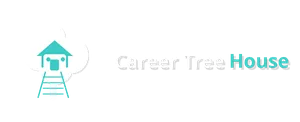
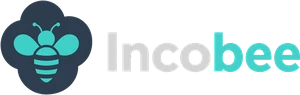
Dong HK2.0: incobee.com.

diff --git a/index.html b/index.html
@@ -5,7 +5,7 @@
 	
 	<meta name="viewport" content="width=device-width, initial-scale=1">
 	<link rel="profile" href="https://gmpg.org/xfn/11">
-	<title>Career Tree House</title>
+	<title>Incobee</title>
 <meta name="robots" content="noindex, nofollow">
 <!-- Google Tag Manager -->
 <script>(function(w,d,s,l,i){w[l]=w[l]||[];w[l].push({'gtm.start':
@@ -104,10 +104,10 @@ img:is([sizes=auto i],[sizes^="auto," i]){contain-intrinsic-size:3000px 1500px}
 <link rel="preload" as="image" href="wp-content/uploads/2025/03/5.webp" fetchpriority="high">
 <link rel="canonical" href="/">
 <link rel="shortlink" href="/">
-<link rel="icon" href="wp-content/uploads/2025/03/7-150x150.webp" sizes="32x32">
-<link rel="icon" href="wp-content/uploads/2025/03/7-300x300.webp" sizes="192x192">
-<link rel="apple-touch-icon" href="wp-content/uploads/2025/03/7-300x300.webp">
-<meta name="msapplication-TileImage" content="wp-content/uploads/2025/03/7-300x300.webp">
+<link rel="icon" href="wp-content/uploads/2025/03/7-150x150.webp?v=2" sizes="32x32">
+<link rel="icon" href="wp-content/uploads/2025/03/7-300x300.webp?v=2" sizes="192x192">
+<link rel="apple-touch-icon" href="wp-content/uploads/2025/03/7-300x300.webp?v=2">
+<meta name="msapplication-TileImage" content="wp-content/uploads/2025/03/7-300x300.webp?v=2">
 <style id="wp-custom-css">
 html, body {
 	overflow-x: hidden;
@@ -127,6 +127,10 @@ html, body {
 .elementor-testimonial-name {
 	margin-bottom: 5px;
 }
+
+#QBWpFormIFrame_1 {
+	height: 800px !important;
+}
 </style>
 </head>
 <body class="home wp-singular page-template page-template-elementor_header_footer page page-id-25 wp-custom-logo wp-embed-responsive wp-theme-hello-elementor theme-default elementor-default elementor-template-full-width elementor-kit-6 elementor-page elementor-page-25">
@@ -142,7 +146,7 @@ height="0" width="0" style="display:none;visibility:hidden"></iframe></noscript>
 					<div class="e-con-inner">
 				<div class="elementor-element elementor-element-df6df03 elementor-widget elementor-widget-text-editor" data-id="df6df03" data-element_type="widget" data-widget_type="text-editor.default">
 				<div class="elementor-widget-container">
-									<p><a style="color: #b5b5b5;" href="mailto:contact@careertreehouse.com">contact@careertreehouse.com</a> | 將軍澳, 香港。</p>								</div>
+									<p><a style="color: #b5b5b5;" href="mailto:contact@incobee.com">contact@incobee.com</a> | 將軍澳, 香港。</p>								</div>
 				</div>
 					</div>
 				</div>
@@ -152,7 +156,7 @@ height="0" width="0" style="display:none;visibility:hidden"></iframe></noscript>
 				<div class="elementor-element elementor-element-b9aa1db elementor-widget elementor-widget-theme-site-logo elementor-widget-image" data-id="b9aa1db" data-element_type="widget" data-widget_type="theme-site-logo.default">
 				<div class="elementor-widget-container">
 											<a href="/">
-			<img fetchpriority="high" width="500" height="204" src="wp-content/uploads/2025/03/5.webp" class="attachment-full size-full wp-image-55" alt="Career Tree House" srcset="wp-content/uploads/2025/03/5.webp 500w, wp-content/uploads/2025/03/5-300x122.webp 300w" sizes="(max-width: 500px) 100vw, 500px">				</a>
+			<img fetchpriority="high" width="500" height="204" src="wp-content/uploads/2025/03/5.webp" class="attachment-full size-full wp-image-55" alt="Incobee" srcset="wp-content/uploads/2025/03/5.webp 500w, wp-content/uploads/2025/03/5-300x122.webp 300w" sizes="(max-width: 500px) 100vw, 500px">				</a>
 											</div>
 				</div>
 				</div>
@@ -291,7 +295,7 @@ height="0" width="0" style="display:none;visibility:hidden"></iframe></noscript>
 				</div>
 				</div>
 		<div class="elementor-element elementor-element-116a8c1 e-con-full e-flex e-con e-child" data-id="116a8c1" data-element_type="container">
-				<div data-cddform="dong-hk20-hong-kong20" data-origin="www.careertreehouse.com"></div>
+				<div data-cddform="dong-hk20-hong-kong20" data-origin="www.incobee.com"></div>
 <script src="https://www.chatfromforms.com/form-embed.js?v=0.1" defer></script>
 				</div>
 					</div>
@@ -754,7 +758,7 @@ height="0" width="0" style="display:none;visibility:hidden"></iframe></noscript>
 				</div>
 				<div class="elementor-element elementor-element-f7f732f elementor-widget-tablet__width-initial elementor-widget elementor-widget-text-editor" data-id="f7f732f" data-element_type="widget" data-widget_type="text-editor.default">
 				<div class="elementor-widget-container">
-									<p>歡迎來到 Career Tree House，我們專注於為僱主連接有才華的專業人士，提供遠距居家工作的機會。我們的使命是簡化招聘流程，達成有效配對，支持靈活的工作安排，推動網上業務發展。</p>								</div>
+									<p>歡迎來到 Incobee，我們專注於為僱主連接有才華的專業人士，提供遠距居家工作的機會。我們的使命是簡化招聘流程，達成有效配對，支持靈活的工作安排，推動網上業務發展。</p>								</div>
 				</div>
 				<div class="elementor-element elementor-element-6a9d8b2 elementor-icon-list--layout-traditional elementor-list-item-link-full_width elementor-widget elementor-widget-icon-list" data-id="6a9d8b2" data-element_type="widget" data-widget_type="icon-list.default">
 				<div class="elementor-widget-container">
@@ -939,7 +943,7 @@ height="0" width="0" style="display:none;visibility:hidden"></iframe></noscript>
 							<img decoding="async" src="wp-content/plugins/elementor/assets/images/placeholder.png" title="" alt="" loading="lazy">						</div>
 					
 										<div class="elementor-testimonial-details">
-														<div class="elementor-testimonial-name">涂柏肇</div>
+														<div class="elementor-testimonial-name">簡士弘</div>
 																						<div class="elementor-testimonial-job">項目經理</div>
 													</div>
 									</div>
@@ -960,7 +964,7 @@ height="0" width="0" style="display:none;visibility:hidden"></iframe></noscript>
 							<img decoding="async" src="wp-content/plugins/elementor/assets/images/placeholder.png" title="" alt="" loading="lazy">						</div>
 					
 										<div class="elementor-testimonial-details">
-														<div class="elementor-testimonial-name">鄧鈺珍</div>
+														<div class="elementor-testimonial-name">關巧螢</div>
 																						<div class="elementor-testimonial-job">客戶支援代表</div>
 													</div>
 									</div>
@@ -981,7 +985,7 @@ height="0" width="0" style="display:none;visibility:hidden"></iframe></noscript>
 							<img decoding="async" src="wp-content/plugins/elementor/assets/images/placeholder.png" title="" alt="" loading="lazy">						</div>
 					
 										<div class="elementor-testimonial-details">
-														<div class="elementor-testimonial-name">司馬婉</div>
+														<div class="elementor-testimonial-name">甘美如</div>
 																						<div class="elementor-testimonial-job">虛擬助理</div>
 													</div>
 									</div>
@@ -1007,7 +1011,7 @@ height="0" width="0" style="display:none;visibility:hidden"></iframe></noscript>
 									<div class="elementor-testimonial__image">
 						<img decoding="async" src="wp-content/plugins/elementor/assets/images/placeholder.png" alt="涂柏肇">
 											</div>
-								<cite class="elementor-testimonial__cite"><span class="elementor-testimonial__name">涂柏肇</span><span class="elementor-testimonial__title">項目經理</span></cite>			</div>
+								<cite class="elementor-testimonial__cite"><span class="elementor-testimonial__name">簡士弘</span><span class="elementor-testimonial__title">項目經理</span></cite>			</div>
 		</div>
 								</div>
 											<div class="swiper-slide">
@@ -1020,7 +1024,7 @@ height="0" width="0" style="display:none;visibility:hidden"></iframe></noscript>
 									<div class="elementor-testimonial__image">
 						<img decoding="async" src="wp-content/plugins/elementor/assets/images/placeholder.png" alt="鄧鈺珍">
 											</div>
-								<cite class="elementor-testimonial__cite"><span class="elementor-testimonial__name">鄧鈺珍</span><span class="elementor-testimonial__title">客戶支援代表</span></cite>			</div>
+								<cite class="elementor-testimonial__cite"><span class="elementor-testimonial__name">關巧螢</span><span class="elementor-testimonial__title">客戶支援代表</span></cite>			</div>
 		</div>
 								</div>
 											<div class="swiper-slide">
@@ -1033,7 +1037,7 @@ height="0" width="0" style="display:none;visibility:hidden"></iframe></noscript>
 									<div class="elementor-testimonial__image">
 						<img decoding="async" src="wp-content/plugins/elementor/assets/images/placeholder.png" alt="司馬婉">
 											</div>
-								<cite class="elementor-testimonial__cite"><span class="elementor-testimonial__name">司馬婉</span><span class="elementor-testimonial__title">虛擬助理</span></cite>			</div>
+								<cite class="elementor-testimonial__cite"><span class="elementor-testimonial__name">甘美如</span><span class="elementor-testimonial__title">虛擬助理</span></cite>			</div>
 		</div>
 								</div>
 									</div>
@@ -1053,11 +1057,11 @@ height="0" width="0" style="display:none;visibility:hidden"></iframe></noscript>
 		<div class="elementor-element elementor-element-00ea152 e-con-full e-flex e-con e-child" data-id="00ea152" data-element_type="container">
 				<div class="elementor-element elementor-element-7e94a2d elementor-widget elementor-widget-image" data-id="7e94a2d" data-element_type="widget" data-widget_type="image.default">
 				<div class="elementor-widget-container">
-															<img width="500" height="198" src="wp-content/uploads/2025/03/6.webp" class="attachment-large size-large wp-image-70" alt="Career Tree House" srcset="wp-content/uploads/2025/03/6.webp 500w, wp-content/uploads/2025/03/6-300x119.webp 300w" sizes="(max-width: 500px) 100vw, 500px">															</div>
+															<img width="500" height="198" src="wp-content/uploads/2025/03/6.webp" class="attachment-large size-large wp-image-70" alt="Incobee" srcset="wp-content/uploads/2025/03/6.webp 500w, wp-content/uploads/2025/03/6-300x119.webp 300w" sizes="(max-width: 500px) 100vw, 500px">															</div>
 				</div>
 				<div class="elementor-element elementor-element-06a7dfa elementor-widget elementor-widget-text-editor" data-id="06a7dfa" data-element_type="widget" data-widget_type="text-editor.default">
 				<div class="elementor-widget-container">
-									<p>歡迎來到 Career Tree House，我們專注於為僱主連接有才華的專業人士，提供遠距在家工作的機會。</p>								</div>
+									<p>歡迎來到 Incobee，我們專注於為僱主連接有才華的專業人士，提供遠距在家工作的機會。</p>								</div>
 				</div>
 				<div class="elementor-element elementor-element-8bffc11 elementor-nav-menu__align-center elementor-nav-menu--dropdown-none elementor-widget elementor-widget-nav-menu" data-id="8bffc11" data-element_type="widget" data-settings="{&quot;layout&quot;:&quot;horizontal&quot;,&quot;submenu_icon&quot;:{&quot;value&quot;:&quot;&lt;svg class=\&quot;e-font-icon-svg e-fas-caret-down\&quot; viewBox=\&quot;0 0 320 512\&quot; xmlns=\&quot;http:\/\/www.w3.org\/2000\/svg\&quot;&gt;&lt;path d=\&quot;M31.3 192h257.3c17.8 0 26.7 21.5 14.1 34.1L174.1 354.8c-7.8 7.8-20.5 7.8-28.3 0L17.2 226.1C4.6 213.5 13.5 192 31.3 192z\&quot;&gt;&lt;\/path&gt;&lt;\/svg&gt;&quot;,&quot;library&quot;:&quot;fa-solid&quot;}}" data-widget_type="nav-menu.default">
 				<div class="elementor-widget-container">
@@ -1075,7 +1079,7 @@ height="0" width="0" style="display:none;visibility:hidden"></iframe></noscript>
 		<div class="elementor-element elementor-element-6c3f946 e-con-full e-flex e-con e-child" data-id="6c3f946" data-element_type="container">
 				<div class="elementor-element elementor-element-9acfc22 elementor-widget elementor-widget-text-editor" data-id="9acfc22" data-element_type="widget" data-widget_type="text-editor.default">
 				<div class="elementor-widget-container">
-									© 2026 Career Tree House。保留所有權利。								</div>
+									© 2026 Incobee。保留所有權利。								</div>
 				</div>
 				<div class="elementor-element elementor-element-4290256 elementor-widget elementor-widget-text-editor" data-id="4290256" data-element_type="widget" data-widget_type="text-editor.default">
 				<div class="elementor-widget-container">

diff --git a/privacy-policy/index.html b/privacy-policy/index.html
@@ -5,7 +5,7 @@
 	
 	<meta name="viewport" content="width=device-width, initial-scale=1">
 	<link rel="profile" href="https://gmpg.org/xfn/11">
-	<title>私隱政策 - Career Tree House</title>
+	<title>私隱政策 - Incobee</title>
 <meta name="robots" content="noindex, nofollow">
 <!-- Google Tag Manager -->
 <script>(function(w,d,s,l,i){w[l]=w[l]||[];w[l].push({'gtm.start':
@@ -102,10 +102,10 @@ img:is([sizes=auto i],[sizes^="auto," i]){contain-intrinsic-size:3000px 1500px}
 <meta name="generator" content="WordPress 7.0">
 <link rel="canonical" href="/">
 <link rel="shortlink" href="/">
-<link rel="icon" href="wp-content/uploads/2025/03/7-150x150.webp" sizes="32x32">
-<link rel="icon" href="wp-content/uploads/2025/03/7-300x300.webp" sizes="192x192">
-<link rel="apple-touch-icon" href="wp-content/uploads/2025/03/7-300x300.webp">
-<meta name="msapplication-TileImage" content="wp-content/uploads/2025/03/7-300x300.webp">
+<link rel="icon" href="wp-content/uploads/2025/03/7-150x150.webp?v=2" sizes="32x32">
+<link rel="icon" href="wp-content/uploads/2025/03/7-300x300.webp?v=2" sizes="192x192">
+<link rel="apple-touch-icon" href="wp-content/uploads/2025/03/7-300x300.webp?v=2">
+<meta name="msapplication-TileImage" content="wp-content/uploads/2025/03/7-300x300.webp?v=2">
 <style id="wp-custom-css">
 html, body {
 	overflow-x: hidden;
@@ -140,7 +140,7 @@ height="0" width="0" style="display:none;visibility:hidden"></iframe></noscript>
 					<div class="e-con-inner">
 				<div class="elementor-element elementor-element-df6df03 elementor-widget elementor-widget-text-editor" data-id="df6df03" data-element_type="widget" data-widget_type="text-editor.default">
 				<div class="elementor-widget-container">
-									<p><a style="color: #b5b5b5;" href="mailto:contact@careertreehouse.com">contact@careertreehouse.com</a> | 將軍澳, 香港。</p>								</div>
+									<p><a style="color: #b5b5b5;" href="mailto:contact@incobee.com">contact@incobee.com</a> | 將軍澳, 香港。</p>								</div>
 				</div>
 					</div>
 				</div>
@@ -150,7 +150,7 @@ height="0" width="0" style="display:none;visibility:hidden"></iframe></noscript>
 				<div class="elementor-element elementor-element-b9aa1db elementor-widget elementor-widget-theme-site-logo elementor-widget-image" data-id="b9aa1db" data-element_type="widget" data-widget_type="theme-site-logo.default">
 				<div class="elementor-widget-container">
 											<a href="/">
-			<img fetchpriority="high" width="500" height="204" src="wp-content/uploads/2025/03/5.webp" class="attachment-full size-full wp-image-55" alt="Career Tree House" srcset="wp-content/uploads/2025/03/5.webp 500w, wp-content/uploads/2025/03/5-300x122.webp 300w" sizes="(max-width: 500px) 100vw, 500px">				</a>
+			<img fetchpriority="high" width="500" height="204" src="wp-content/uploads/2025/03/5.webp" class="attachment-full size-full wp-image-55" alt="Incobee" srcset="wp-content/uploads/2025/03/5.webp 500w, wp-content/uploads/2025/03/5-300x122.webp 300w" sizes="(max-width: 500px) 100vw, 500px">				</a>
 											</div>
 				</div>
 				</div>
@@ -208,31 +208,31 @@ height="0" width="0" style="display:none;visibility:hidden"></iframe></noscript>
 <ul>
 <li>修改或複製材料；</li>
 <li>將有關材料用於任何商業用途或公開展示（不論是否作商業用途）。</li>
-<li>嘗試對 Career Tree House 網站上的任何軟件或材料進行解編或逆向工程。</li>
+<li>嘗試對 Incobee 網站上的任何軟件或材料進行解編或逆向工程。</li>
 <li>從材料中移除任何版權或其他專有標示。</li>
 <li>將材料轉交他人，或在任何其他伺服器上建立材料的鏡像副本。</li>
 </ul>
-<p>如您違反任何上述限制，此授權將自動終止。Career Tree House 亦可隨時終止此授權。授權終止後，您必須銷毀已下載的材料，不論是電子或印刷版本。</p>
+<p>如您違反任何上述限制，此授權將自動終止。Incobee 亦可隨時終止此授權。授權終止後，您必須銷毀已下載的材料，不論是電子或印刷版本。</p>
 
 <h2>免責聲明</h2>
-<p>Career Tree House 網站上的材料按「現況」提供。Career Tree House 不作任何明示或暗示的保證，並在此免除所有其他保證，包括但不限於適銷性、特定用途適用性或不侵犯知識產權的暗示保證。</p>
-<p>此外，Career Tree House 不保證，亦不對本網站或任何連結網站所載材料的準確性、結果或可靠性作出任何陳述。</p>
+<p>Incobee 網站上的材料按「現況」提供。Incobee 不作任何明示或暗示的保證，並在此免除所有其他保證，包括但不限於適銷性、特定用途適用性或不侵犯知識產權的暗示保證。</p>
+<p>此外，Incobee 不保證，亦不對本網站或任何連結網站所載材料的準確性、結果或可靠性作出任何陳述。</p>
 
 <h2>限制</h2>
-<p>在任何情況下，Career Tree House 或其供應商均不會對因使用或無法使用本網站材料而引致的任何損害（包括但不限於資料或利潤損失，或因業務中斷而造成的損失）負責，即使 Career Tree House 或其授權代表已獲告知可能出現相關損害。</p>
+<p>在任何情況下，Incobee 或其供應商均不會對因使用或無法使用本網站材料而引致的任何損害（包括但不限於資料或利潤損失，或因業務中斷而造成的損失）負責，即使 Incobee 或其授權代表已獲告知可能出現相關損害。</p>
 <p>由於部分司法管轄區不允許限制暗示保證，或限制相應或附帶損害的責任，因此上述限制可能不適用於您。</p>
 
 <h2>修正同錯誤</h2>
-<p>Career Tree House 網站上的材料可能包含排版或攝影錯誤。Career Tree House 不保證網站上的任何材料準確、完整或最新。Career Tree House 可隨時更改網站材料，恕不另行通知，亦不承諾一定會更新相關內容。</p>
+<p>Incobee 網站上的材料可能包含排版或攝影錯誤。Incobee 不保證網站上的任何材料準確、完整或最新。Incobee 可隨時更改網站材料，恕不另行通知，亦不承諾一定會更新相關內容。</p>
 
 <h2>連結</h2>
-<p>Career Tree House 並未審查所有連結網站，亦不會對任何連結網站的內容負責。提供連結並不代表 Career Tree House 認可該網站。使用連結網站的風險由用戶自行承擔。</p>
+<p>Incobee 並未審查所有連結網站，亦不會對任何連結網站的內容負責。提供連結並不代表 Incobee 認可該網站。使用連結網站的風險由用戶自行承擔。</p>
 
 <h2>對使用條款的修改</h2>
-<p>Career Tree House 可隨時修改本網站的使用條款，恕不另行通知。使用本網站即表示您同意受當時有效版本的使用條款及細則約束。</p>
+<p>Incobee 可隨時修改本網站的使用條款，恕不另行通知。使用本網站即表示您同意受當時有效版本的使用條款及細則約束。</p>
 
 <h2>管治法律</h2>
-<p>任何與 Career Tree House 網站有關的索償，均受相關適用法律管轄。</p>
+<p>任何與 Incobee 網站有關的索償，均受相關適用法律管轄。</p>
 
 <p>適用於使用網站的一般條款及細則。</p>
 
@@ -287,11 +287,11 @@ height="0" width="0" style="display:none;visibility:hidden"></iframe></noscript>
 		<div class="elementor-element elementor-element-00ea152 e-con-full e-flex e-con e-child" data-id="00ea152" data-element_type="container">
 				<div class="elementor-element elementor-element-7e94a2d elementor-widget elementor-widget-image" data-id="7e94a2d" data-element_type="widget" data-widget_type="image.default">
 				<div class="elementor-widget-container">
-															<img width="500" height="198" src="wp-content/uploads/2025/03/6.webp" class="attachment-large size-large wp-image-70" alt="Career Tree House" srcset="wp-content/uploads/2025/03/6.webp 500w, wp-content/uploads/2025/03/6-300x119.webp 300w" sizes="(max-width: 500px) 100vw, 500px">															</div>
+															<img width="500" height="198" src="wp-content/uploads/2025/03/6.webp" class="attachment-large size-large wp-image-70" alt="Incobee" srcset="wp-content/uploads/2025/03/6.webp 500w, wp-content/uploads/2025/03/6-300x119.webp 300w" sizes="(max-width: 500px) 100vw, 500px">															</div>
 				</div>
 				<div class="elementor-element elementor-element-06a7dfa elementor-widget elementor-widget-text-editor" data-id="06a7dfa" data-element_type="widget" data-widget_type="text-editor.default">
 				<div class="elementor-widget-container">
-									<p>歡迎來到 Career Tree House，我們專注於為僱主連接有才華的專業人士，提供遠距在家工作的機會。</p>								</div>
+									<p>歡迎來到 Incobee，我們專注於為僱主連接有才華的專業人士，提供遠距在家工作的機會。</p>								</div>
 				</div>
 				<div class="elementor-element elementor-element-8bffc11 elementor-nav-menu__align-center elementor-nav-menu--dropdown-none elementor-widget elementor-widget-nav-menu" data-id="8bffc11" data-element_type="widget" data-settings="{&quot;layout&quot;:&quot;horizontal&quot;,&quot;submenu_icon&quot;:{&quot;value&quot;:&quot;&lt;svg class=\&quot;e-font-icon-svg e-fas-caret-down\&quot; viewBox=\&quot;0 0 320 512\&quot; xmlns=\&quot;http:\/\/www.w3.org\/2000\/svg\&quot;&gt;&lt;path d=\&quot;M31.3 192h257.3c17.8 0 26.7 21.5 14.1 34.1L174.1 354.8c-7.8 7.8-20.5 7.8-28.3 0L17.2 226.1C4.6 213.5 13.5 192 31.3 192z\&quot;&gt;&lt;\/path&gt;&lt;\/svg&gt;&quot;,&quot;library&quot;:&quot;fa-solid&quot;}}" data-widget_type="nav-menu.default">
 				<div class="elementor-widget-container">
@@ -323,7 +323,7 @@ height="0" width="0" style="display:none;visibility:hidden"></iframe></noscript>
 		<div class="elementor-element elementor-element-6c3f946 e-con-full e-flex e-con e-child" data-id="6c3f946" data-element_type="container">
 				<div class="elementor-element elementor-element-9acfc22 elementor-widget elementor-widget-text-editor" data-id="9acfc22" data-element_type="widget" data-widget_type="text-editor.default">
 				<div class="elementor-widget-container">
-									© 2026 Career Tree House。保留所有權利。								</div>
+									© 2026 Incobee。保留所有權利。								</div>
 				</div>
 				<div class="elementor-element elementor-element-4290256 elementor-widget elementor-widget-text-editor" data-id="4290256" data-element_type="widget" data-widget_type="text-editor.default">
 				<div class="elementor-widget-container">

diff --git a/thank-you/index.html b/thank-you/index.html
@@ -5,7 +5,7 @@
 	
 	<meta name="viewport" content="width=device-width, initial-scale=1">
 	<link rel="profile" href="https://gmpg.org/xfn/11">
-	<title>多謝您的提交 - Career Tree House</title>
+	<title>多謝您的提交 - Incobee</title>
 <meta name="robots" content="noindex, nofollow">
 <!-- Google Tag Manager -->
 <script>(function(w,d,s,l,i){w[l]=w[l]||[];w[l].push({'gtm.start':
@@ -102,10 +102,10 @@ img:is([sizes=auto i],[sizes^="auto," i]){contain-intrinsic-size:3000px 1500px}
 <meta name="generator" content="WordPress 7.0">
 <link rel="canonical" href="/thank-you/">
 <link rel="shortlink" href="/">
-<link rel="icon" href="wp-content/uploads/2025/03/7-150x150.webp" sizes="32x32">
-<link rel="icon" href="wp-content/uploads/2025/03/7-300x300.webp" sizes="192x192">
-<link rel="apple-touch-icon" href="wp-content/uploads/2025/03/7-300x300.webp">
-<meta name="msapplication-TileImage" content="wp-content/uploads/2025/03/7-300x300.webp">
+<link rel="icon" href="wp-content/uploads/2025/03/7-150x150.webp?v=2" sizes="32x32">
+<link rel="icon" href="wp-content/uploads/2025/03/7-300x300.webp?v=2" sizes="192x192">
+<link rel="apple-touch-icon" href="wp-content/uploads/2025/03/7-300x300.webp?v=2">
+<meta name="msapplication-TileImage" content="wp-content/uploads/2025/03/7-300x300.webp?v=2">
 <style id="wp-custom-css">
 html, body {
 	overflow-x: hidden;
@@ -140,7 +140,7 @@ height="0" width="0" style="display:none;visibility:hidden"></iframe></noscript>
 					<div class="e-con-inner">
 				<div class="elementor-element elementor-element-df6df03 elementor-widget elementor-widget-text-editor" data-id="df6df03" data-element_type="widget" data-widget_type="text-editor.default">
 				<div class="elementor-widget-container">
-									<p><a style="color: #b5b5b5;" href="mailto:contact@careertreehouse.com">contact@careertreehouse.com</a> | 將軍澳, 香港。</p>								</div>
+									<p><a style="color: #b5b5b5;" href="mailto:contact@incobee.com">contact@incobee.com</a> | 將軍澳, 香港。</p>								</div>
 				</div>
 					</div>
 				</div>
@@ -150,7 +150,7 @@ height="0" width="0" style="display:none;visibility:hidden"></iframe></noscript>
 				<div class="elementor-element elementor-element-b9aa1db elementor-widget elementor-widget-theme-site-logo elementor-widget-image" data-id="b9aa1db" data-element_type="widget" data-widget_type="theme-site-logo.default">
 				<div class="elementor-widget-container">
 											<a href="/">
-			<img fetchpriority="high" width="500" height="204" src="wp-content/uploads/2025/03/5.webp" class="attachment-full size-full wp-image-55" alt="Career Tree House" srcset="wp-content/uploads/2025/03/5.webp 500w, wp-content/uploads/2025/03/5-300x122.webp 300w" sizes="(max-width: 500px) 100vw, 500px">				</a>
+			<img fetchpriority="high" width="500" height="204" src="wp-content/uploads/2025/03/5.webp" class="attachment-full size-full wp-image-55" alt="Incobee" srcset="wp-content/uploads/2025/03/5.webp 500w, wp-content/uploads/2025/03/5-300x122.webp 300w" sizes="(max-width: 500px) 100vw, 500px">				</a>
 											</div>
 				</div>
 				</div>
@@ -367,11 +367,11 @@ height="0" width="0" style="display:none;visibility:hidden"></iframe></noscript>
 		<div class="elementor-element elementor-element-00ea152 e-con-full e-flex e-con e-child" data-id="00ea152" data-element_type="container">
 				<div class="elementor-element elementor-element-7e94a2d elementor-widget elementor-widget-image" data-id="7e94a2d" data-element_type="widget" data-widget_type="image.default">
 				<div class="elementor-widget-container">
-															<img width="500" height="198" src="wp-content/uploads/2025/03/6.webp" class="attachment-large size-large wp-image-70" alt="Career Tree House" srcset="wp-content/uploads/2025/03/6.webp 500w, wp-content/uploads/2025/03/6-300x119.webp 300w" sizes="(max-width: 500px) 100vw, 500px">															</div>
+															<img width="500" height="198" src="wp-content/uploads/2025/03/6.webp" class="attachment-large size-large wp-image-70" alt="Incobee" srcset="wp-content/uploads/2025/03/6.webp 500w, wp-content/uploads/2025/03/6-300x119.webp 300w" sizes="(max-width: 500px) 100vw, 500px">															</div>
 				</div>
 				<div class="elementor-element elementor-element-06a7dfa elementor-widget elementor-widget-text-editor" data-id="06a7dfa" data-element_type="widget" data-widget_type="text-editor.default">
 				<div class="elementor-widget-container">
-									<p>歡迎來到 Career Tree House，我們專注於為僱主連接有才華的專業人士，提供遠距在家工作的機會。</p>								</div>
+									<p>歡迎來到 Incobee，我們專注於為僱主連接有才華的專業人士，提供遠距在家工作的機會。</p>								</div>
 				</div>
 				<div class="elementor-element elementor-element-8bffc11 elementor-nav-menu__align-center elementor-nav-menu--dropdown-none elementor-widget elementor-widget-nav-menu" data-id="8bffc11" data-element_type="widget" data-settings="{&quot;layout&quot;:&quot;horizontal&quot;,&quot;submenu_icon&quot;:{&quot;value&quot;:&quot;&lt;svg class=\&quot;e-font-icon-svg e-fas-caret-down\&quot; viewBox=\&quot;0 0 320 512\&quot; xmlns=\&quot;http:\/\/www.w3.org\/2000\/svg\&quot;&gt;&lt;path d=\&quot;M31.3 192h257.3c17.8 0 26.7 21.5 14.1 34.1L174.1 354.8c-7.8 7.8-20.5 7.8-28.3 0L17.2 226.1C4.6 213.5 13.5 192 31.3 192z\&quot;&gt;&lt;\/path&gt;&lt;\/svg&gt;&quot;,&quot;library&quot;:&quot;fa-solid&quot;}}" data-widget_type="nav-menu.default">
 				<div class="elementor-widget-container">
@@ -403,7 +403,7 @@ height="0" width="0" style="display:none;visibility:hidden"></iframe></noscript>
 		<div class="elementor-element elementor-element-6c3f946 e-con-full e-flex e-con e-child" data-id="6c3f946" data-element_type="container">
 				<div class="elementor-element elementor-element-9acfc22 elementor-widget elementor-widget-text-editor" data-id="9acfc22" data-element_type="widget" data-widget_type="text-editor.default">
 				<div class="elementor-widget-container">
-									© 2026 Career Tree House。保留所有權利。								</div>
+									© 2026 Incobee。保留所有權利。								</div>
 				</div>
 				<div class="elementor-element elementor-element-4290256 elementor-widget elementor-widget-text-editor" data-id="4290256" data-element_type="widget" data-widget_type="text-editor.default">
 				<div class="elementor-widget-container">
